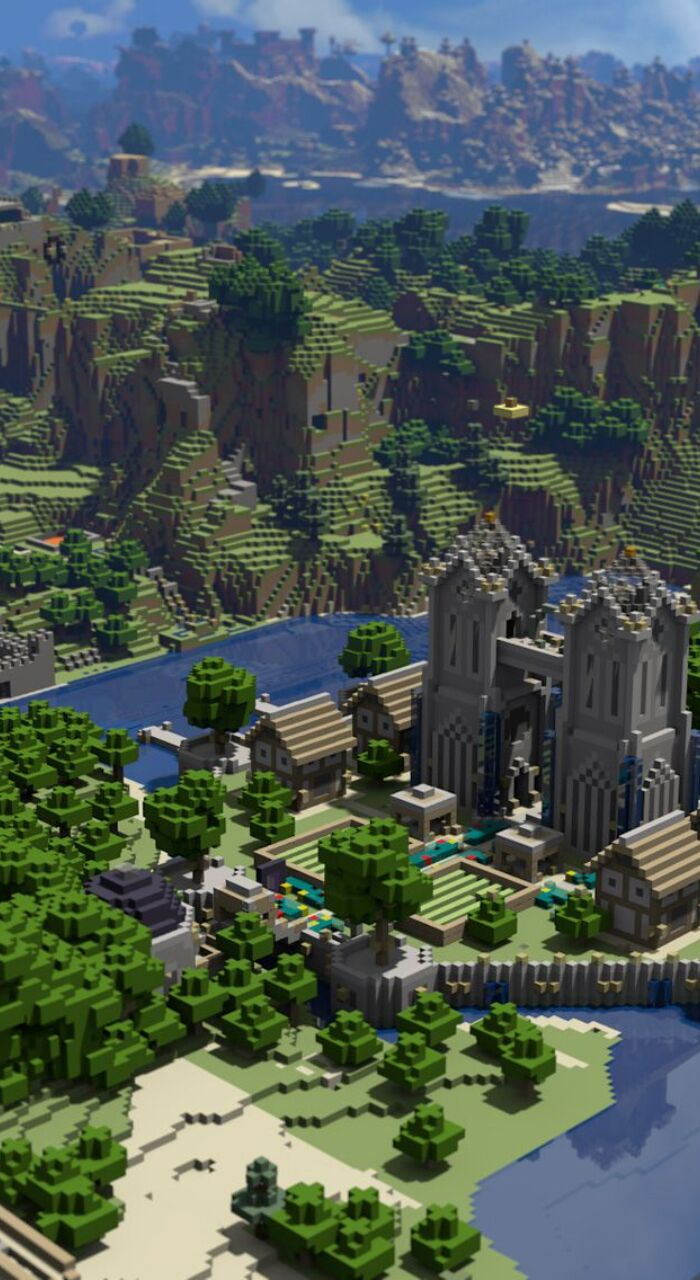
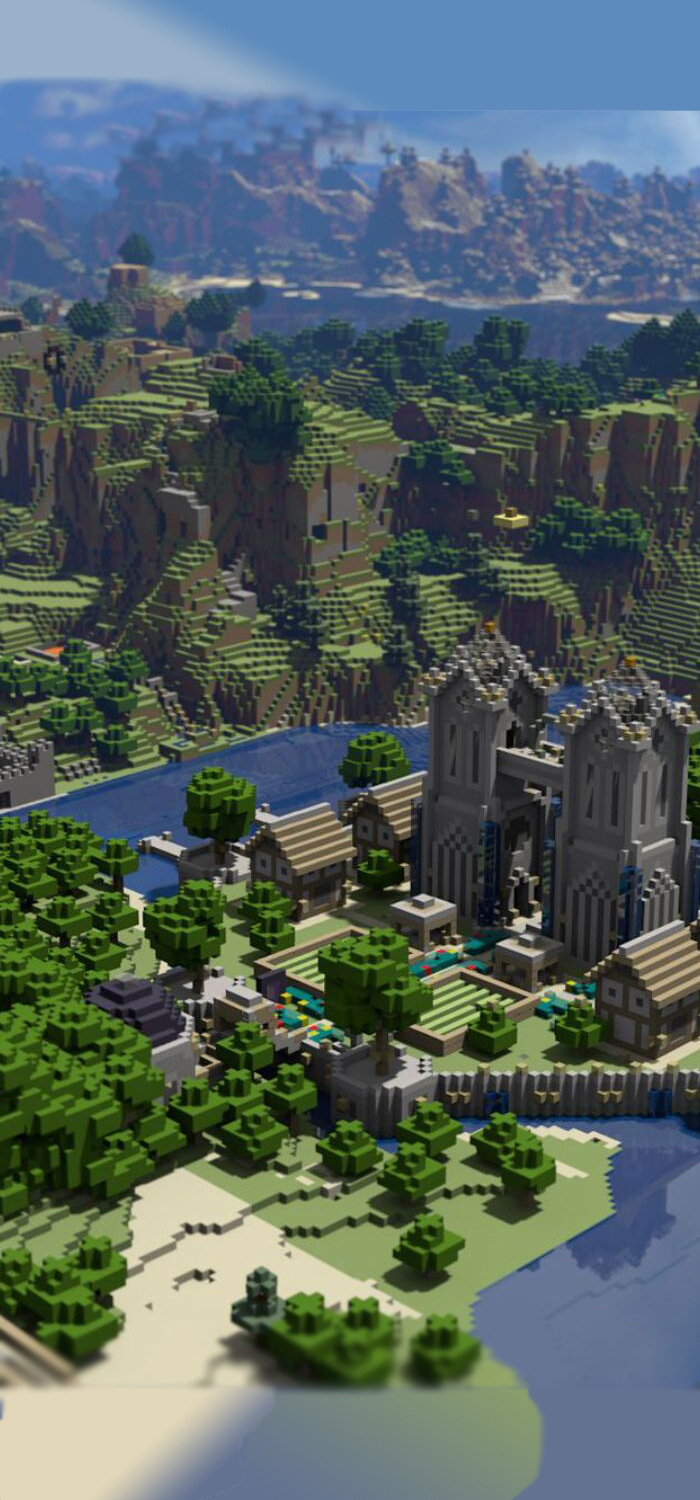
Add More
Add Funcs
Add More details

diff --git a/assets/css/style_phone.css b/assets/css/style_phone.css
@@ -7,11 +7,8 @@
     font-family: Arial;
     font-weight: bold;
     padding: 10px;
-    background: #f1f1f1;
-    background-image: url(../../img/background-phone.jpg);
-    background-attachment: fixed;
-    background-repeat: repeat-y;
-    background-size: 100%;
+    background: url(../../img/background-phone.jpg) repeat-y fixed top;
+    background-size: 110%;
   }
    
   /* header tag */
@@ -20,8 +17,7 @@
     padding: 15%;
     overflow: hidden;
     text-align: center;
-    background-image: url(../../img/background-img1.png);
-    background-repeat: repeat-y;
+    background: url(../../img/background-img1.png) repeat-y scroll top;
   }
   
   .headerp1 {
@@ -39,10 +35,10 @@
   .topnav {
     position: relative;
     overflow: hidden;
-    background-color: #333;
+    background-color: #000000;
     background-image: url(../../img/bottom.png);
-    text-align: center;
     background-repeat: repeat-x repeat-y;
+    text-align: center;
     width: 100%;
     height: 60px;
   }
@@ -156,19 +152,21 @@
     }
   }
 
+  #headoftable1 {
+    font-size: 30px;
+  }
+
   .table1 {
-    color:black;
     text-align: center;
-    border-radius: 0%;
+    margin-left: 10%;
+    border-collapse: collapse;
+    border: 4px #000000 solid;   
+    border-radius: 8px;
     width: 80%;
   }
 
-  tr {
-    border-radius: 0%;
-  }
-
-  td {
-    border-radius: 0%;
+  .table1 tr th,.table1 tr td {
+    border: 2px #0f0f0f solid;
   }
 
   .join {

diff --git a/style.css b/style.css
@@ -7,10 +7,7 @@
     font-family: Arial;
     font-weight: bold;
     padding: 10px;
-    background: #f1f1f1;
-    background-image: url(./img/background-krzaqf.jpg);
-    background-attachment: fixed;
-    background-repeat: repeat-y;
+    background: url(./img/background-krzaqf.jpg) repeat-y fixed top;
     background-size: 100%;
   }
    
@@ -20,8 +17,7 @@
     padding: 15%;
     overflow: hidden;
     text-align: center;
-    background-image: url(./img/background-img1.png);
-    background-repeat: repeat-y;
+    background: url(./img/background-img1.png) repeat-y scroll top;
   }
   
   .headerp1 {
@@ -39,10 +35,10 @@
   .topnav {
     position: relative;
     overflow: hidden;
-    background-color: #333;
+    background-color: #000000;
     background-image: url(./img/bottom.png);
-    text-align: center;
     background-repeat: repeat-x repeat-y;
+    text-align: center;
     width: 100%;
     height: 60px;
   }
@@ -157,19 +153,21 @@
     }
   }
 
+  #headoftable1 {
+    font-size: 30px;
+  }
+
   .table1 {
-    color:black;
     text-align: center;
-    border-radius: 0%;
+    margin-left: 10%;
+    border-collapse: collapse;
+    border: 4px #000000 solid;   
+    border-radius: 8px;
     width: 80%;
   }
 
-  tr {
-    border-radius: 0%;
-  }
-
-  td {
-    border-radius: 0%;
+  .table1 tr th,.table1 tr td {
+    border: 2px #0f0f0f solid;
   }
 
   .join {

diff --git a/index.php b/index.php
@@ -17,7 +17,9 @@ $scene = "$CurrDir/scenery.php";
 $apr_img = "$CurrDir/img/apr-ico.png";
 $music = "$CurrDir/music/C418-Alpha.flac";
 $mainjs = "$CurrDir/assets/js/main.js";
-$mcfile = "https://royenheart.com/wp-content/uploads/MC1.16.4%E5%AE%A2%E6%88%B7%E7%AB%AF.7z";
+$mcfile01 = "https://royenheart.com/wp-content/uploads/MC1.16.4%E5%AE%A2%E6%88%B7%E7%AB%AF.7z";
+$mcfile02 = "https://royenheart.com/wp-content/uploads/1.16.4fabric%E6%95%B4%E5%90%88%E5%8C%85.zip";
+$mcfile03 = "https://royenheart.com/wp-content/uploads/%E5%85%B0%E5%A4%A7%E5%A4%8D%E5%88%BB%E6%9C%8D%E5%8A%A1%E5%99%A8%E5%AE%A2%E6%88%B7%E7%AB%AF.zip";
 require_once __DIR__.'/data.php';
 ?>
 
@@ -61,72 +63,23 @@ require_once __DIR__.'/data.php';
     <div class="leftcolumn">
       <div class="card1">
         <h2 id="introduce" style="text-align: center; font-size: 40px;">本服简介</h2>
-        <p class="table1" style="position: absolute;">
-        <table class="table1" align="center" border="1" cellspacing="0">
-          <tr>
-            <td>服务器名称：</td>
-            <td>PHAR</td>
-          </tr>
-          <TR>
-            <TD>有效状态：</TD>
-            <td>长期开放</td>
-          </TR>
-          <tr>
-            <td>游戏版本：</td>
-            <td>1.16.4</td>
-          </tr>
-          <tr>
-            <td>服务器类型：
-            </td>
-            <td>纯公益服务器</td>
-          </tr>
-          <tr>
-            <td>游戏模式:</td>
-            <td>纯净原版生存</td>
-          </tr>
-          <tr>
-            <td>正版验证：</td>
-            <td>无（需白名单）</td>
-          </tr>
-          <tr>
-            <td>
-              最大在线人数：
-            </td>
-            <td>
-              8
-            </td>
-          </tr>
-          <tr>
-            <td>
-              服务器插件：
-            </td>
-            <td>
-              部分基础插件+经济类插件
-            </td>
-          </tr>
-          <tr>
-            <td>
-              服务器地址：
-            </td>
-            <td>
-              royenheart.com
-            </td>
-          </tr>
-          <tr>
-            <td>
-              QQ群：
-            </td>
-            <td>
-              853106198
-            </td>
-          </tr>
-        </table>
-        </p>
+          <table class="table1">
+            <tr><th colspan="2" id="headoftable1">PHAR</th></tr>
+            <tr><td>有效状态</td><td>长期开放</td></tr>
+            <tr><td>游戏版本</td><td>1.16.4</td></tr>
+            <tr><td>服务器类型</td><td>纯公益服务器</td></tr>
+            <tr><td>游戏模式</td><td>纯净原版生存</td></tr>
+            <tr><td>正版验证</td><td>无（需白名单）</td></tr>
+            <tr><td>最大在线人数</td><td>10</td></tr>
+            <tr><td>服务器插件</td><td>部分基础插件+经济类插件</td></tr>
+            <tr><td>服务器地址</td><td>royenheart.com</td></tr>
+            <tr><td>QQ群</td><td>853106198</td></tr>
+            <tr><td>卫星地图</td><td><a id="download" href="http://royenheart.com:8123">点击查看</a></td></tr>
+          </table>
         <p style="text-align: center;">
-          备注：目前服务器仅对兰州大学在校生开放，具体内容请加群了解。
-        </p>
-        <p style="text-align: center;">
-          卫星地图：<a id="download" href="http://royenheart.com:8123">地址</a>
+          服务器仅对兰州大学在校生开放，具体内容请加群了解。<br>
+          也欢迎各位支持复刻兰大的项目，复刻兰大服务器地址：mc4.xlhost.cn:22184 <br>
+          复刻兰大服务器由PloughRemnant友情提供。
         </p>
         <br>
       </div>
@@ -185,13 +138,15 @@ require_once __DIR__.'/data.php';
       </div>
       <div class="card5">
         <h2 style="text-align: center;">联系管理员</h2>
-        QQ:1270633872 <br>
-        邮箱:royenheart@outlook.com <br>
+        <p><a id="download" href="https://github.com/1299602347" target="_blank">知交</a></p> 
+        <p><a id="download" href="https://github.com/royenheart" target="_blank">royenheart</a></p>
       </div>
       <div class="card6">
         <h2 style="text-align: center;">下载客户端文件</h2>
         <p>支持正版</p>
-        <a id="download" href="<?php echo $mcfile; ?>">下载</a>
+        <p><a id="download" href="<?php echo $mcfile01; ?>">MC1.16.4纯净客户端</a></p>
+        <p><a id="download" href="<?php echo $mcfile02; ?>">MC1.16.4FABRIC客户端</a></p>
+        <p><a id="download" href="<?php echo $mcfile03; ?>">复刻兰大服务器客户端</a></p>
       </div>
     </div>
   </div>

diff --git a/index-phone.php b/index-phone.php
@@ -61,72 +61,24 @@ require_once __DIR__.'/data.php';
     <div class="leftcolumn">
       <div class="card1">
         <h2 id="introduce" style="text-align: center; font-size: 40px;">本服简介</h2>
-        <p class="table1" style="position: absolute;">
-        <table class="table1" align="center" border="1" cellspacing="0">
-          <tr>
-            <td>服务器名称：</td>
-            <td>PHAR</td>
-          </tr>
-          <TR>
-            <TD>有效状态：</TD>
-            <td>长期开放</td>
-          </TR>
-          <tr>
-            <td>游戏版本：</td>
-            <td>1.16.4</td>
-          </tr>
-          <tr>
-            <td>服务器类型：
-            </td>
-            <td>纯公益服务器</td>
-          </tr>
-          <tr>
-            <td>游戏模式:</td>
-            <td>纯净原版生存</td>
-          </tr>
-          <tr>
-            <td>正版验证：</td>
-            <td>无（需白名单）</td>
-          </tr>
-          <tr>
-            <td>
-              最大在线人数：
-            </td>
-            <td>
-              8
-            </td>
-          </tr>
-          <tr>
-            <td>
-              服务器插件：
-            </td>
-            <td>
-              部分基础插件+经济类插件
-            </td>
-          </tr>
-          <tr>
-            <td>
-              服务器地址：
-            </td>
-            <td>
-              royenheart.com
-            </td>
-          </tr>
-          <tr>
-            <td>
-              QQ群：
-            </td>
-            <td>
-              853106198
-            </td>
-          </tr>
-        </table>
+          <table class="table1">
+              <tr><th colspan="2" id="headoftable1">PHAR</th></tr>
+              <tr><td>有效状态</td><td>长期开放</td></tr>
+              <tr><td>游戏版本</td><td>1.16.4</td></tr>
+              <tr><td>服务器类型</td><td>纯公益服务器</td></tr>
+              <tr><td>游戏模式</td><td>纯净原版生存</td></tr>
+              <tr><td>正版验证</td><td>无（需白名单）</td></tr>
+              <tr><td>最大在线人数</td><td>10</td></tr>
+              <tr><td>服务器插件</td><td>部分基础插件+经济类插件</td></tr>
+              <tr><td>服务器地址</td><td>royenheart.com</td></tr>
+              <tr><td>QQ群</td><td>853106198</td></tr>
+              <tr><td>卫星地图</td><td><a id="download" href="http://royenheart.com:8123">点击查看</a></td></tr>
+            </table>
         </p>
         <p style="text-align: center;">
-          备注：目前服务器仅对兰州大学在校生开放，具体内容请加群了解。
-        </p>
-        <p style="text-align: center;">
-          卫星地图：<a id="download" href="http://royenheart.com:8123">地址</a>
+          服务器仅对兰州大学在校生开放，具体内容请加群了解。<br>
+          也欢迎各位支持复刻兰大的项目，复刻兰大服务器地址：mc4.xlhost.cn:22184 <br>
+          复刻兰大服务器由PloughRemnant友情提供。
         </p>
         <br>
       </div>
@@ -186,13 +138,15 @@ require_once __DIR__.'/data.php';
       </div>
       <div class="card5">
         <h2 style="text-align: center;">联系管理员</h2>
-        QQ:1270633872 <br>
-        邮箱:royenheart@outlook.com <br>
+        <p><a id="download" href="https://github.com/1299602347" target="_blank">知交</a></p> 
+        <p><a id="download" href="https://github.com/royenheart" target="_blank">royenheart</a></p>
       </div>
       <div class="card6">
         <h2 style="text-align: center;">下载客户端文件</h2>
         <p>支持正版</p>
-        <a id="download" href="<?php echo $mcfile; ?>">下载</a>
+        <p><a id="download" href="<?php echo $mcfile01; ?>">MC1.16.4纯净客户端</a></p>
+        <p><a id="download" href="<?php echo $mcfile02; ?>">MC1.16.4FABRIC客户端</a></p>
+        <p><a id="download" href="<?php echo $mcfile03; ?>">复刻兰大服务器客户端</a></p>
       </div>
     </div>
   </div>
